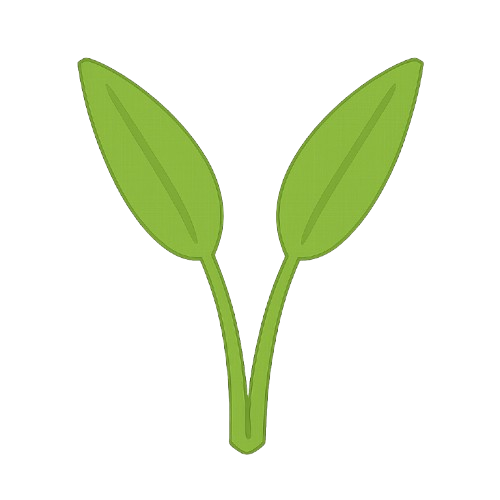
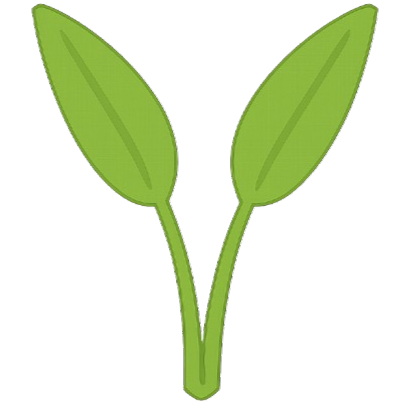
update plant height (#19)

Changed region(s): [[0.0599, 0.0, 0.6584, 1.0], [0.5985, 0.0, 0.9576, 0.5087]]

diff --git a/src/objects/MenuRight/MenuPlant.ts b/src/objects/MenuRight/MenuPlant.ts
@@ -25,13 +25,13 @@ export default class PlantMenu extends Phaser.GameObjects.Container {
     this.add(title)
 
     const plants = [
-      { key: TextureKeys.MorningGloryLeaf, type: PlantType.MorningGlory, label: 'Rau muống' },
-      { key: TextureKeys.LettuceLeaf, type: PlantType.Lettuce, label: 'Rau cải' }
+      { key: TextureKeys.MorningGloryLeaf, type: PlantType.MorningGlory, label: 'Rau muống', width: 50, height: 55 },
+      { key: TextureKeys.LettuceLeaf, type: PlantType.Lettuce, label: 'Rau cải', width: 50, height: 55 },
     ]
 
     plants.forEach((plant) => {
       // icon
-      const leaf = scene.add.image(0, 0, plant.key).setOrigin(0.5).setScale(0.12).setInteractive()
+      const leaf = scene.add.image(0, 0, plant.key).setOrigin(0.5).setScale(1).setDisplaySize(plant.width, plant.height).setInteractive()
       leaf.on('pointerdown', (pointer: Phaser.Input.Pointer) => {
         this.startDragLeaf(plant.key, plant.type, pointer)
       })
